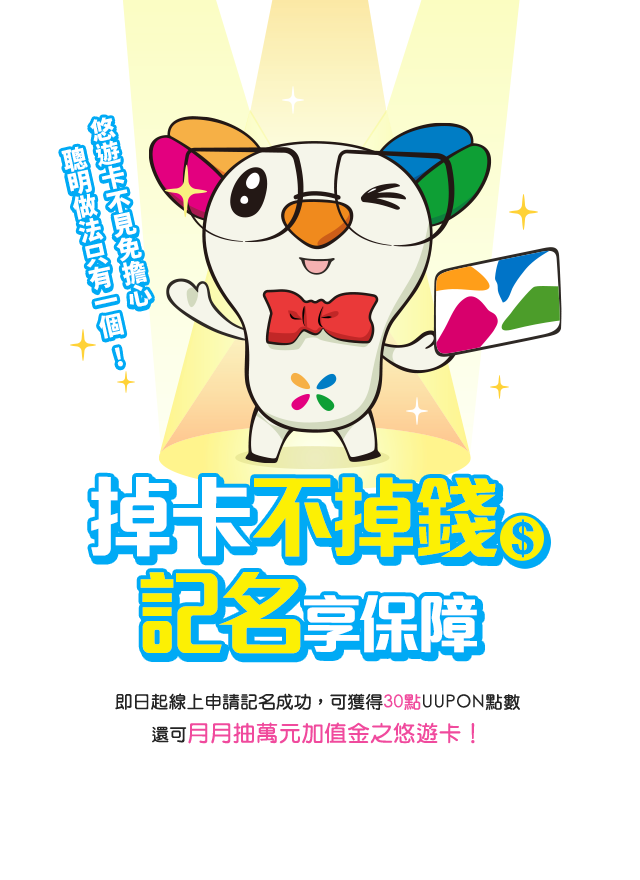
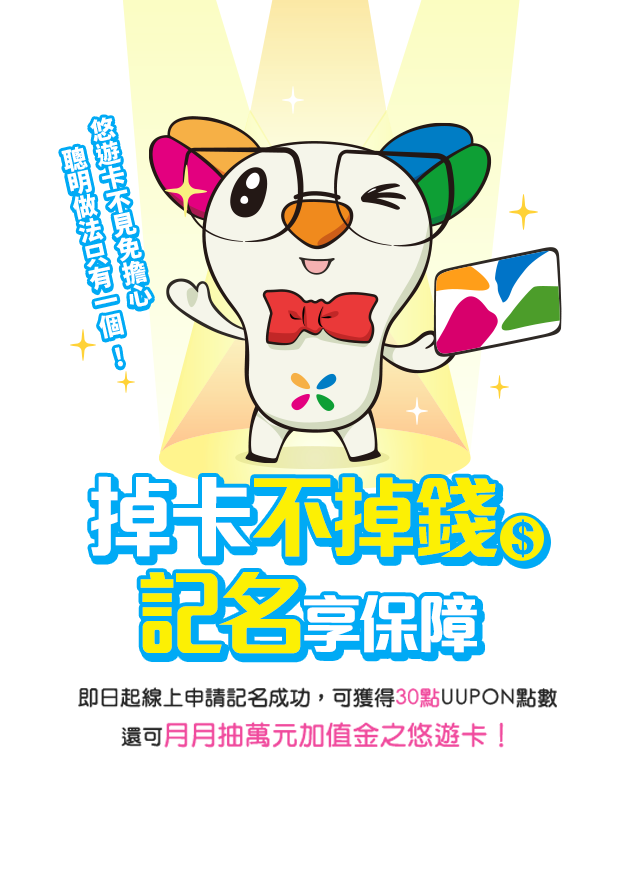
font size

Changed region(s): [[0.125, 0.767, 0.875, 0.8591]]

diff --git a/demo/EasyCard/js/main.js b/demo/EasyCard/js/main.js
@@ -26,7 +26,7 @@ main = function (){
 
 	      $('.rule-notice').find('p').css({
 	        'font-size': '24px',
-	        'line-height': '28px';
+	        'line-height': '28px'
 	      });
 	    }
 
